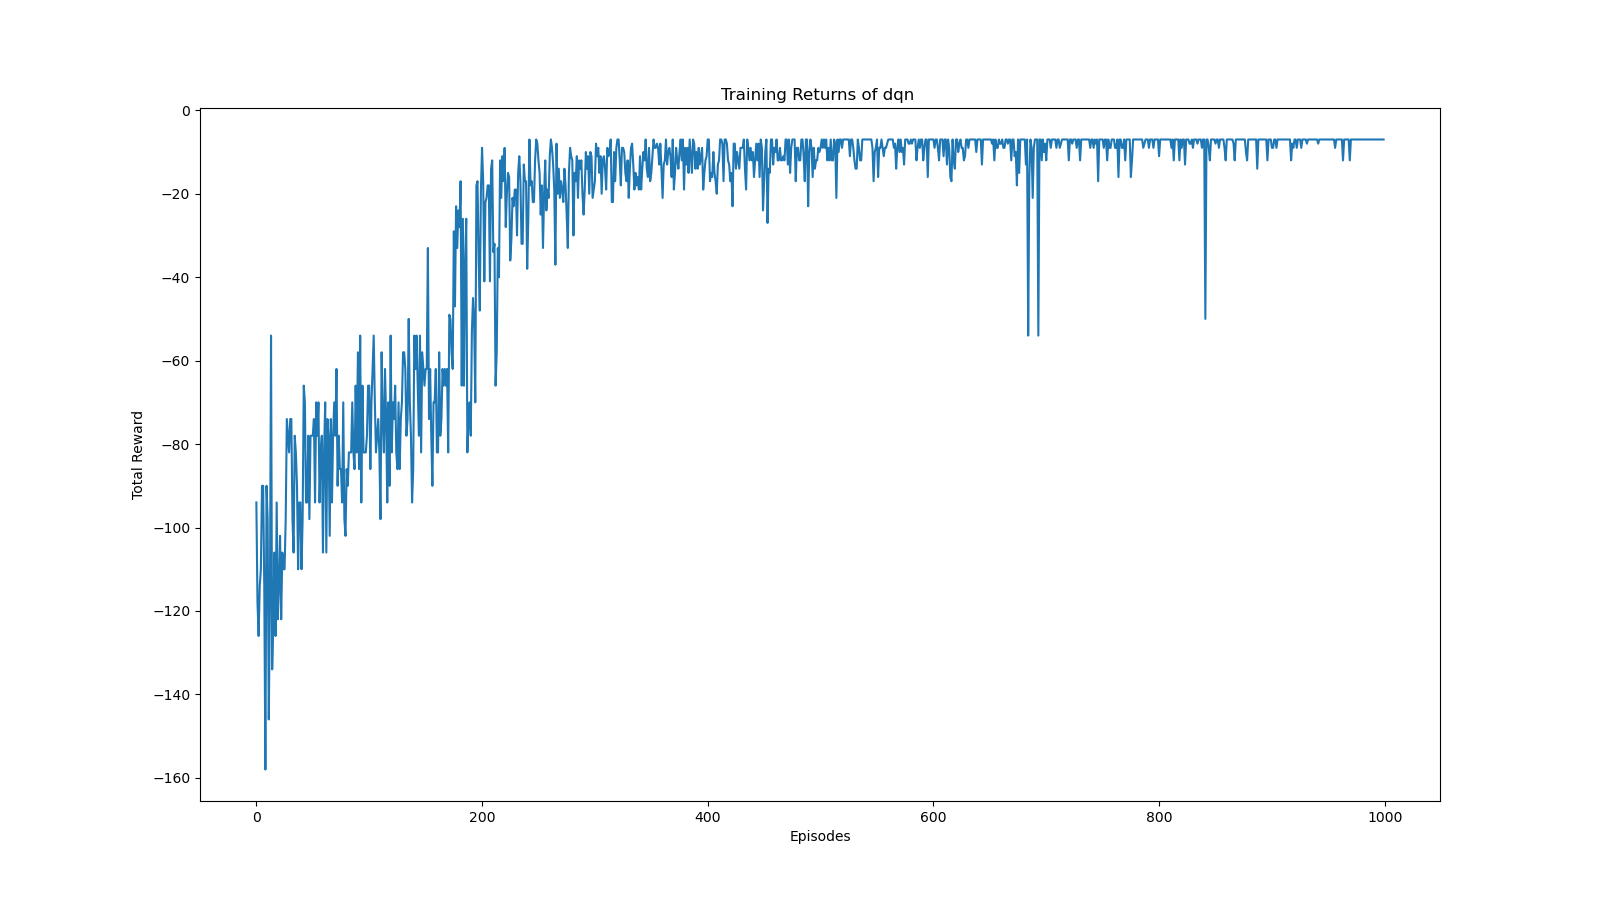
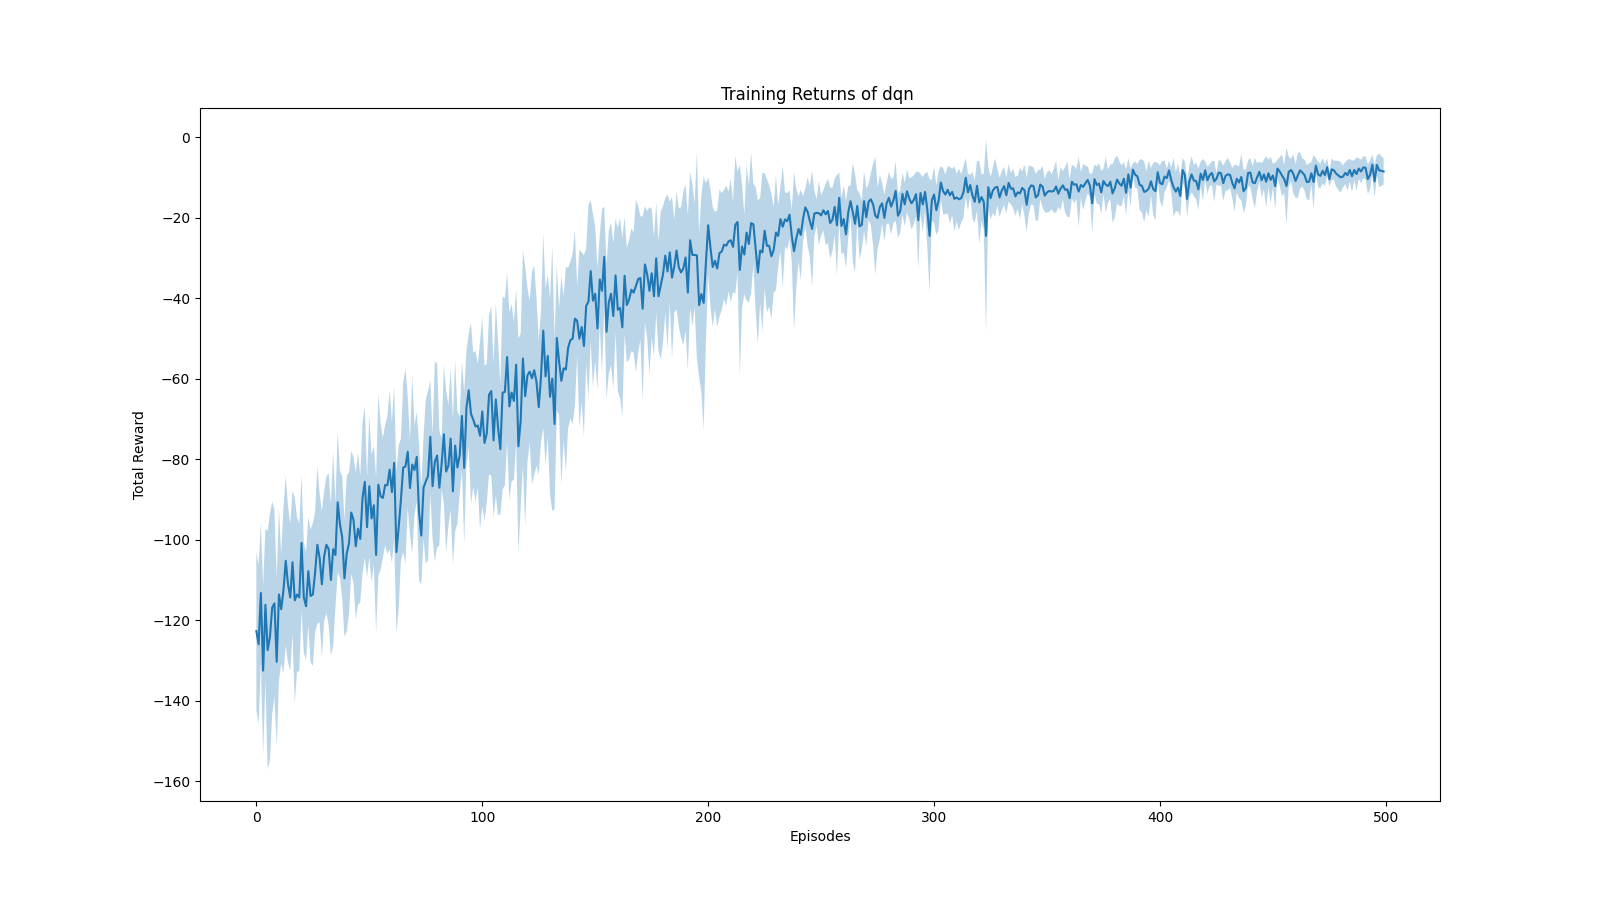
feat: batch grip world

diff --git a/run_agent_grid.py b/run_agent_grid.py
@@ -13,11 +13,15 @@ from agents.rainbow import RainbowAgent
 import numpy as np
 import torch
 import os
+import pickle
+import pandas as pd
 
 def train_agent(agent, num_episodes=1000):
     max_steps = 50
     batch_size = 32
     returns = []
+    steps = []
+
     for episode in range(num_episodes):
         state, _ = env.reset()
         state_one_hot = np.zeros(state_dim)
@@ -39,28 +43,27 @@ def train_agent(agent, num_episodes=1000):
 
             state_one_hot = next_state_one_hot
             total_reward += reward
-
             if done:
                 break
 
         agent.update_target_network()
         agent.decay_epsilon()
         returns.append(total_reward)
-
+        steps.append(episode)
         print(f"Episode {episode + 1}/{num_episodes}, Total Reward: {total_reward}, Epsilon: {agent.epsilon:.2f}")
-
-    plt.figure(figsize=(16, 9))
-    plt.tight_layout()
-    plt.plot(returns)
-    plt.title(f"Training Returns of {args.agent} ")
-    plt.xlabel("Episodes")
-    plt.ylabel("Total Reward")
-    plt.savefig(f"figures/{args.agent}.png")
-    plt.show()
-    
-    # Save the agent parameters
-    torch.save(agent.q_network.state_dict(), f"models/{args.agent}_model.pth")
-    print(f"Model parameters saved to {args.agent}_model.pth")
+    return steps, returns
+    # plt.figure(figsize=(16, 9))
+    # plt.tight_layout()
+    # plt.plot(returns)
+    # plt.title(f"Training Returns of {args.agent} ")
+    # plt.xlabel("Episodes")
+    # plt.ylabel("Total Reward")
+    # plt.savefig(f"figures/{args.agent}.png")
+    # plt.show()
+    #
+    # # Save the agent parameters
+    # torch.save(agent.q_network.state_dict(), f"models/{args.agent}_model.pth")
+    # print(f"Model parameters saved to {args.agent}_model.pth")
 
 
 def test_agent(agent, test_start_state=(2,0), epsilon=0.1, max_step=200):
@@ -98,7 +101,7 @@ def test_agent(agent, test_start_state=(2,0), epsilon=0.1, max_step=200):
             break
         state = next_state
 
-if __name__=='__main__':
+if __name__=='__main_single__':
     # Integrate DQN into GridWorld
     env = GridWorld(env_size=args.env_size,
                     start_state=args.start_state,
@@ -139,7 +142,95 @@ if __name__=='__main__':
     # torch.save(agent.q_network.state_dict(), 'dqn_model.pth')
     # print("Model parameters saved to dqn_model.pth")
 
+if __name__ == '__main__':
+    env_size = args.env_size
+    env = GridWorld(env_size=env_size,
+                    start_state=args.start_state,
+                    target_state=args.target_state,
+                    forbidden_states=args.forbidden_states)
+    # env.render()
+    state_dim = env.num_states
+    action_dim = len(env.action_space)
+    device = 'cuda:0' if torch.cuda.is_available() else 'cpu'
+    print(f"Using device: {device}")
+    agents = ['dqn', 'ddqn', 'multistep_dqn', 'dueling_ddqn', 'distributional_dqn', 'noise_dqn', 'a3c', 'rainbow', 'prioritized_ddqn']
+    # agents = ['dqn']
+    results = {}
+    for agent_name in agents:
+        print(agent_name)
+        args.agent = agent_name
+        seeds_returns = {}
+        # for SEED in (range(40, 51)):
+        for SEED in (range(40, 51)):
+            print(SEED)
+            np.random.seed(SEED)
+            if agent_name == "dqn":
+                agent = DQNAgent(state_dim=state_dim, action_dim=action_dim, device=device)
+            elif agent_name == "ddqn":
+                agent = DoubleDQNAgent(state_dim=state_dim, action_dim=action_dim, device=device)
+            elif agent_name == "dueling_ddqn":
+                agent = DuelingDDQNAgent(state_dim=state_dim, action_dim=action_dim, device=device)
+            elif agent_name == "distributional_dqn":
+                agent = DistributionalDQNAgent(state_dim=state_dim, action_dim=action_dim, device=device)
+            elif agent_name == "noise_dqn":
+                agent = NoiseDQNAgent(state_dim=state_dim, action_dim=action_dim, device=device)
+            elif agent_name == "a3c":
+                agent = A3CAgent(state_dim=state_dim, action_dim=action_dim, device=device)
+            elif agent_name == "rainbow":
+                agent = RainbowAgent(state_dim=state_dim, action_dim=action_dim, device=device)
+            elif agent_name == "multistep_dqn":
+                agent = MultiStepDQNAgent(state_dim=state_dim, action_dim=action_dim, n_step=3, device=device)
 
+            # Execute based on parameters
+            if args.train:
+                steps, returns = train_agent(agent, num_episodes=500)
+                value_function = np.zeros(env_size)
+                for x in range(env_size[0]):
+                    for y in range(env_size[1]):
+                        state = (x, y)
+                        state_one_hot = np.zeros(state_dim)
+                        state_index = state[0] * args.env_size[1] + state[1]
+                        state_one_hot[state_index] = 1
+                        state_tensor = torch.FloatTensor(state_one_hot).unsqueeze(0).to(agent.device)
+                        with torch.no_grad():
+                            q_values = agent.q_network(state_tensor)
+                        if type(q_values) == tuple:
+                            q_values, t = q_values
+                        value_function[state] = q_values.max().item()
+                seeds_returns[SEED] = (steps, returns, value_function)
+
+            if args.test:
+                test_agent(agent, test_start_state=(7, 0), epsilon=0.1)
+
+        plt.figure(figsize=(16, 9))
+        plt.tight_layout()
+        mean_return = np.stack([seeds_returns[k][1] for k in seeds_returns.keys()]).mean(0)
+        std_return = np.stack([seeds_returns[k][1] for k in seeds_returns.keys()]).std(0)
+        mean_value_function = np.stack([seeds_returns[k][2] for k in seeds_returns.keys()]).mean(0)
+        std_value_function = np.stack([seeds_returns[k][2] for k in seeds_returns.keys()]).std(0)
+        mean_value_df = pd.DataFrame(mean_value_function, columns=[f'Y{y}' for y in range(env_size[1])],
+                                    index=[f'X{x}' for x in range(env_size[0])])
+        std_value_df = pd.DataFrame(std_value_function, columns=[f'Y{y}' for y in range(env_size[1])],
+                                    index=[f'X{x}' for x in range(env_size[0])])
+
+        mean_value_df.to_csv(f"figures/{args.agent}_mean_value_function.csv")
+        std_value_df.to_csv(f"figures/{args.agent}_std_value_function.csv")
+
+        results[agent_name] = (mean_return, std_return)
+        plt.plot(steps, mean_return, label='dqn')
+        plt.title(f"Training Returns of {args.agent} ")
+        plt.xlabel("Episodes")
+        plt.ylabel("Total Reward")
+        plt.fill_between(steps, mean_return - std_return, mean_return + std_return, alpha=0.3)
+        # plt.ylim(0, 210)
+        plt.savefig(f"figures/{args.agent}.png")
+        # plt.show()
+
+    # Save the trained model parameters
+    # torch.save(agent.q_network.state_dict(), 'dqn_model.pth')
+    # print("Model parameters saved to dqn_model.pth")
+    with open('results/results_grip.pkl', 'wb') as f:
+        pickle.dump(results, f)
     
 
     
